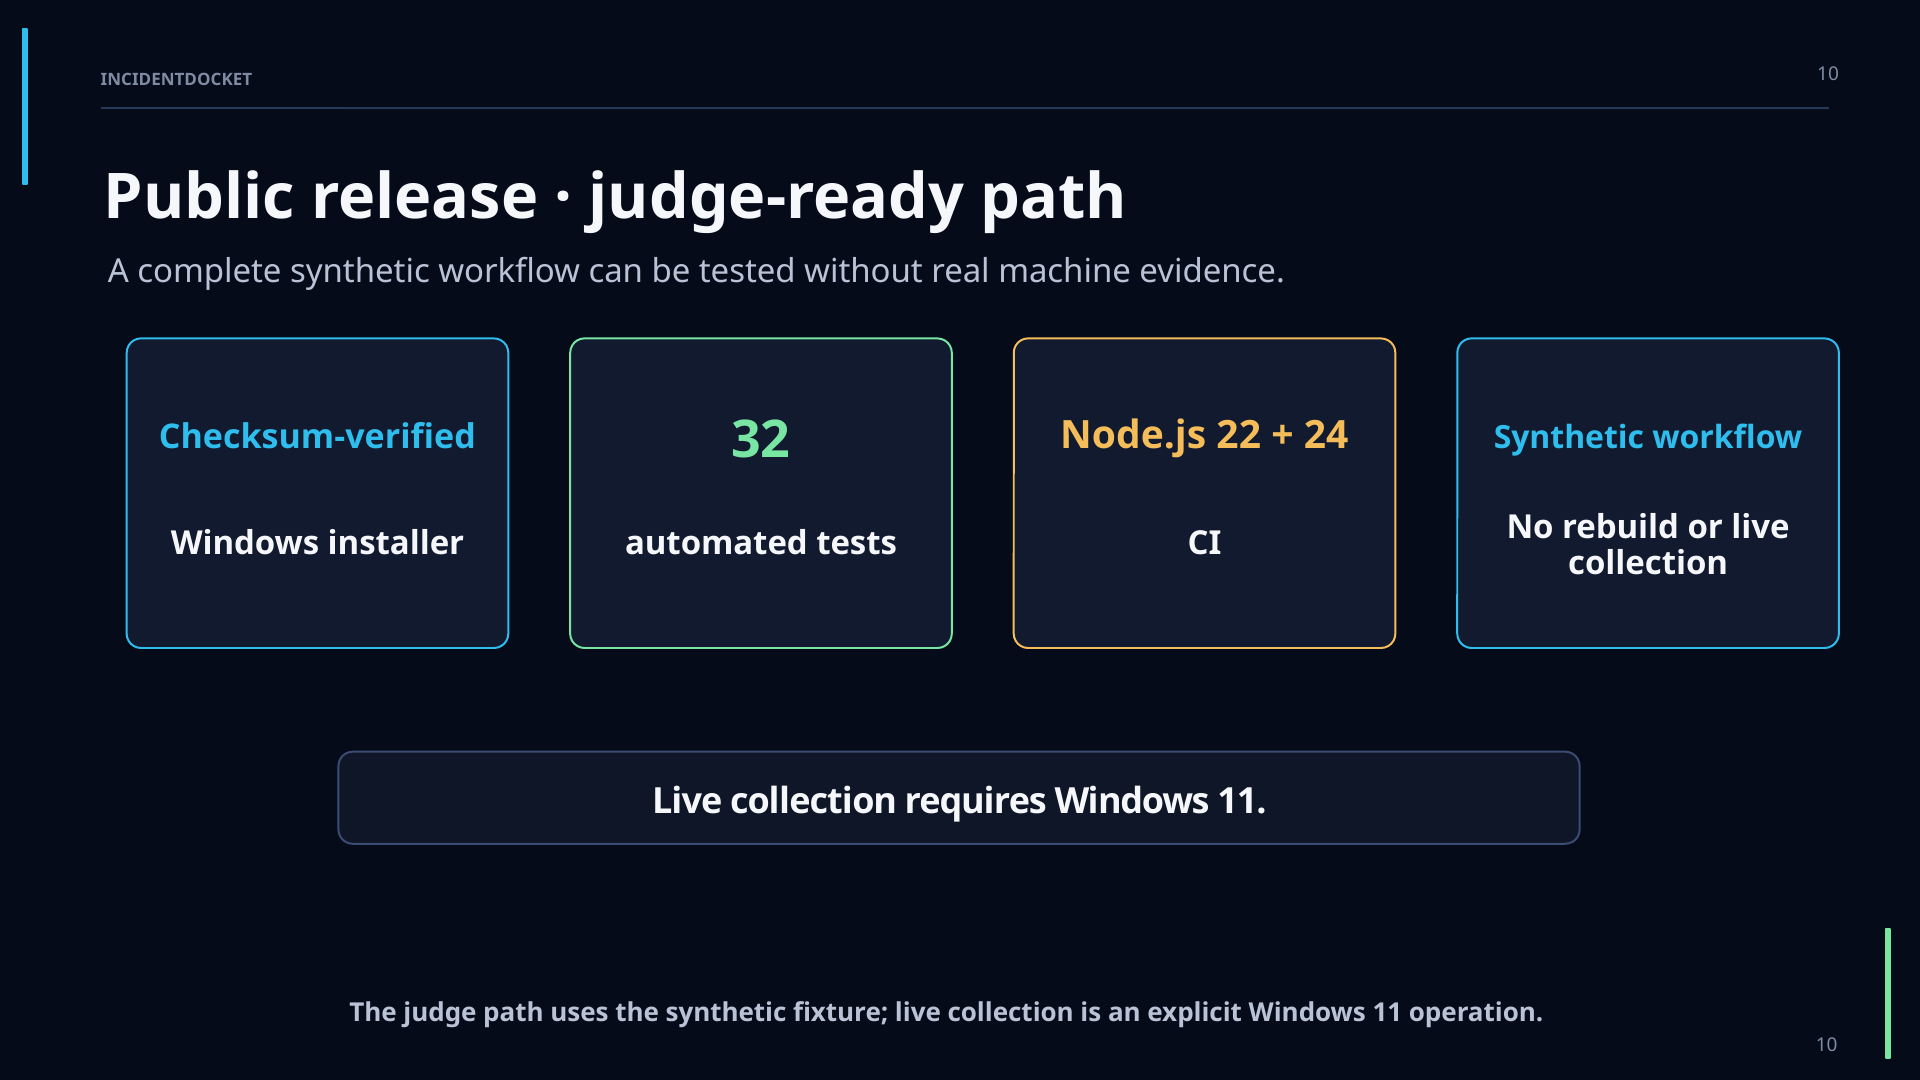
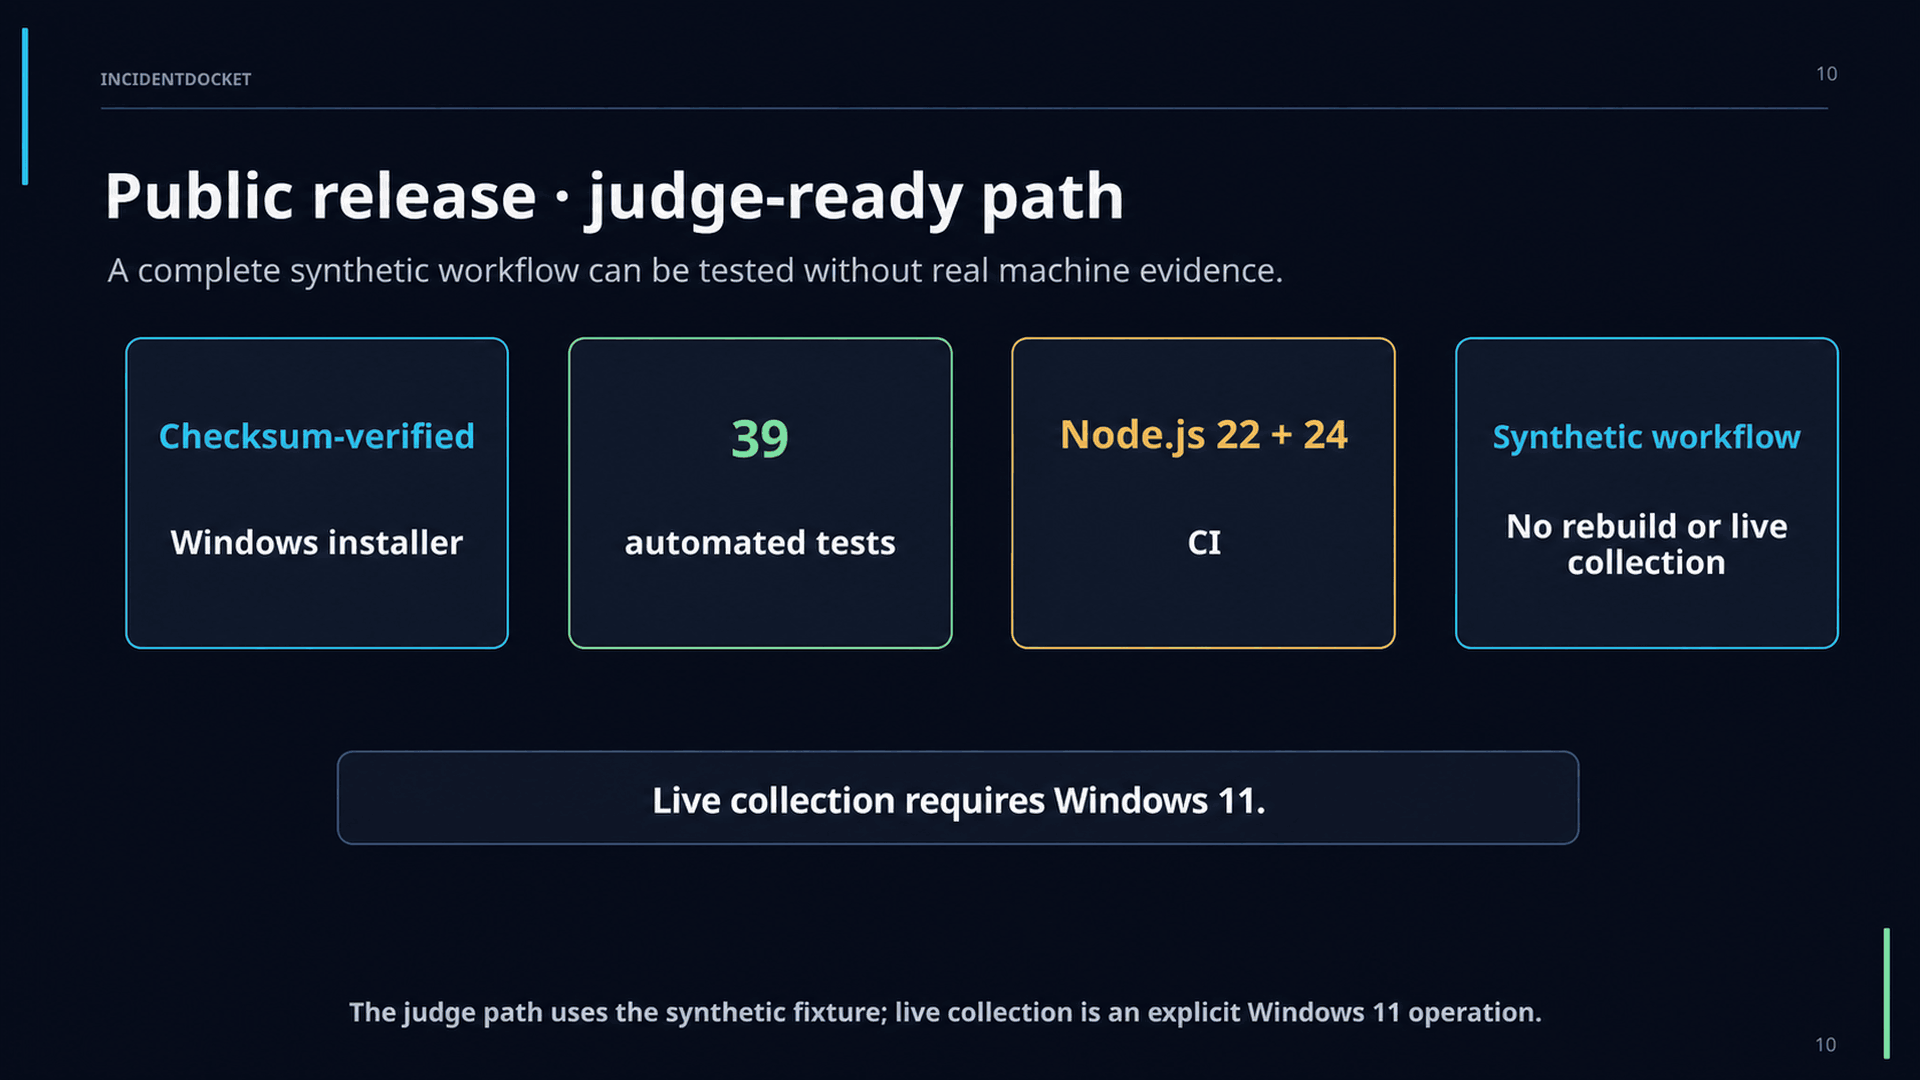
fix: align published MCP version and claims

diff --git a/src/index.ts b/src/index.ts
@@ -40,6 +40,10 @@ const INSTRUCTIONS =
   "registry dumps, packet captures, or raw dumps. Cite only returned evidence IDs. If evidence is insufficient, say so. " +
   "Temporal proximity is not proof of causation.";
 
+const PACKAGE_VERSION = z.string().min(1).parse(
+  (JSON.parse(await readFile(new URL("../package.json", import.meta.url), "utf8")) as { version?: unknown }).version,
+);
+
 const planOutputSchema = z
   .object({
     plan: normalizedPlanSchema,
@@ -106,7 +110,7 @@ const reportOutputSchema = z
 
 export function createMcpServer(storageRoot?: string): McpServer {
   const server = new McpServer(
-    { name: "incident-docket", version: "0.1.2" },
+    { name: "incident-docket", version: PACKAGE_VERSION },
     { instructions: INSTRUCTIONS },
   );
 

diff --git a/test/core.test.ts b/test/core.test.ts
@@ -1527,6 +1527,11 @@ describe("MCP fixture workflow", () => {
     await server.connect(serverTransport);
     await client.connect(clientTransport);
     try {
+      const packageVersion = (
+        JSON.parse(await readFile(new URL("../package.json", import.meta.url), "utf8")) as { version: string }
+      ).version;
+      expect(client.getServerVersion()).toEqual({ name: "incident-docket", version: packageVersion });
+
       const listed = await client.listTools();
       expect(listed.tools.map((tool) => tool.name)).toEqual([
         "plan_collection",

diff --git a/README.md b/README.md
@@ -36,7 +36,7 @@ The final demonstration uses GPT-5.6 through Codex as the reasoning layer, while
 
 Judges can validate the installed package and synthetic evidence pipeline without accessing real machine evidence. After MCP registration, follow the [Judge quick test](#judge-quick-test) for the complete four-tool workflow.
 
-For the planning sequence, phase gates, audit-driven remediation, and human/AI division of responsibility, see [Development Process and Human Control](docs/DEVELOPMENT_PROCESS.md). The original Japanese planning artifacts are retained for historical context only: [initial blueprint](docs/history/1修正前全体プラン.md), [integrated design](docs/history/2全体設計.md), and [phase design](docs/history/3各フェーズ設計.md). Current product behavior is defined by this README and [DESIGN.md](DESIGN.md), not by those historical artifacts.
+For the planning sequence, phase gates, audit-driven remediation, and human/AI division of responsibility, see [Development Process and Human Control](docs/DEVELOPMENT_PROCESS.md). The original Japanese planning artifacts are retained for historical context only: [initial blueprint](docs/history/1修正前全体プラン.md), [integrated design](docs/history/2全体設計.md), and [phase design](docs/history/3各フェーズ設計.md). Current product behavior is defined by [DESIGN.md](DESIGN.md); this README is the user-facing guide, and the historical artifacts do not define supported behavior.
 
 ## Install from the latest Release
 

diff --git a/docs/DEVELOPMENT_PROCESS.md b/docs/DEVELOPMENT_PROCESS.md
@@ -1,6 +1,6 @@
 # Development Process and Human Control
 
-IncidentDocket was built through a human-controlled, phase-gated process rather than a single broad request to an AI system. This retrospective explains the decisions, verification gates, and audit-driven changes behind the project. Current product behavior is defined by [README.md](../README.md) and [DESIGN.md](../DESIGN.md); the early options below are historical context, not supported features.
+IncidentDocket was built through a human-controlled, phase-gated process rather than a single broad request to an AI system. This retrospective explains the decisions, verification gates, and audit-driven changes behind the project. Current product behavior is defined by [DESIGN.md](../DESIGN.md); [README.md](../README.md) is the user-facing guide, and the early options below are historical context, not supported features.
 
 > **Language note:** The detailed planning and audit sessions were conducted primarily in Japanese, my first language, so I could examine technical, privacy, and release details with greater precision. I apologize for the language mismatch; this retrospective and the public project documentation are provided in English for reviewers.
 